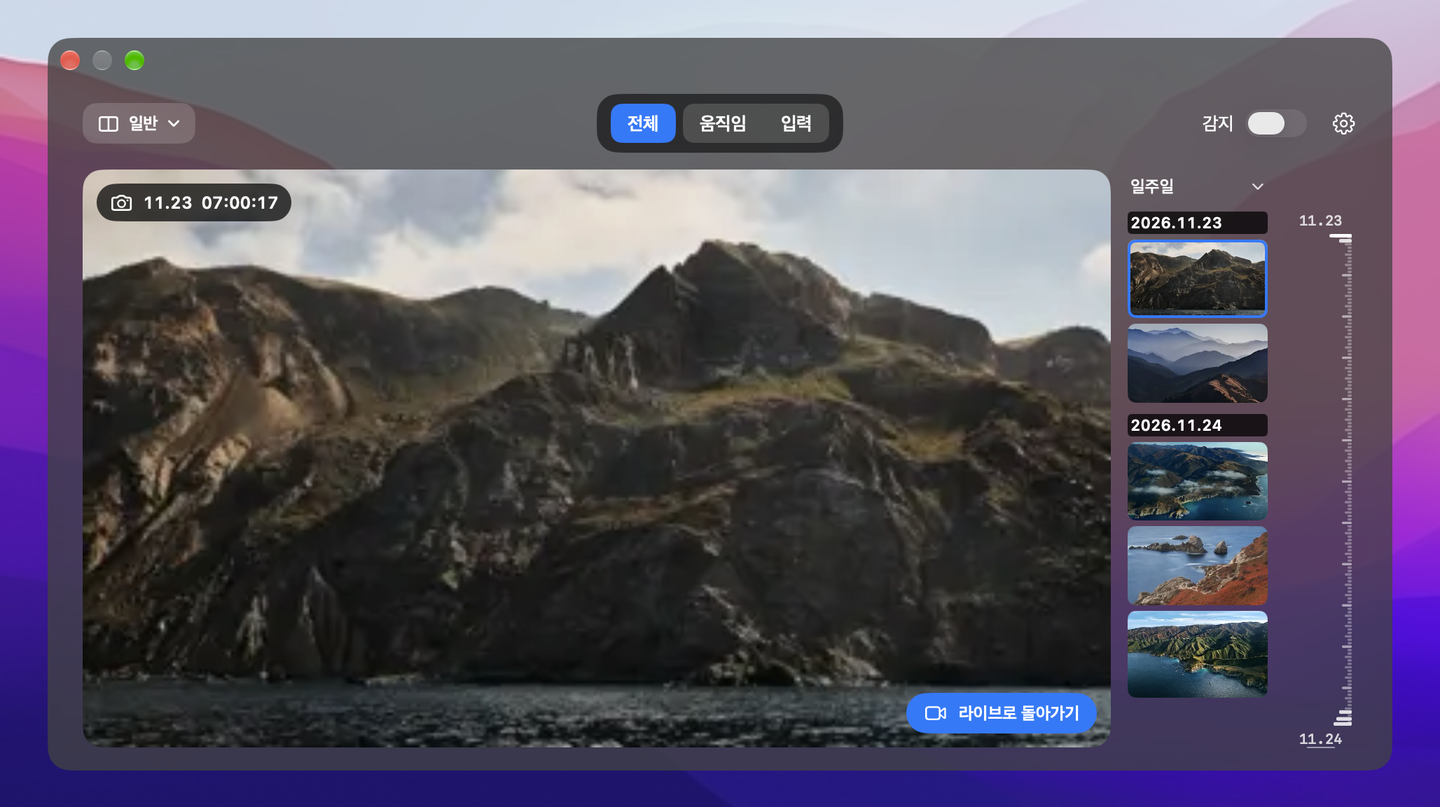
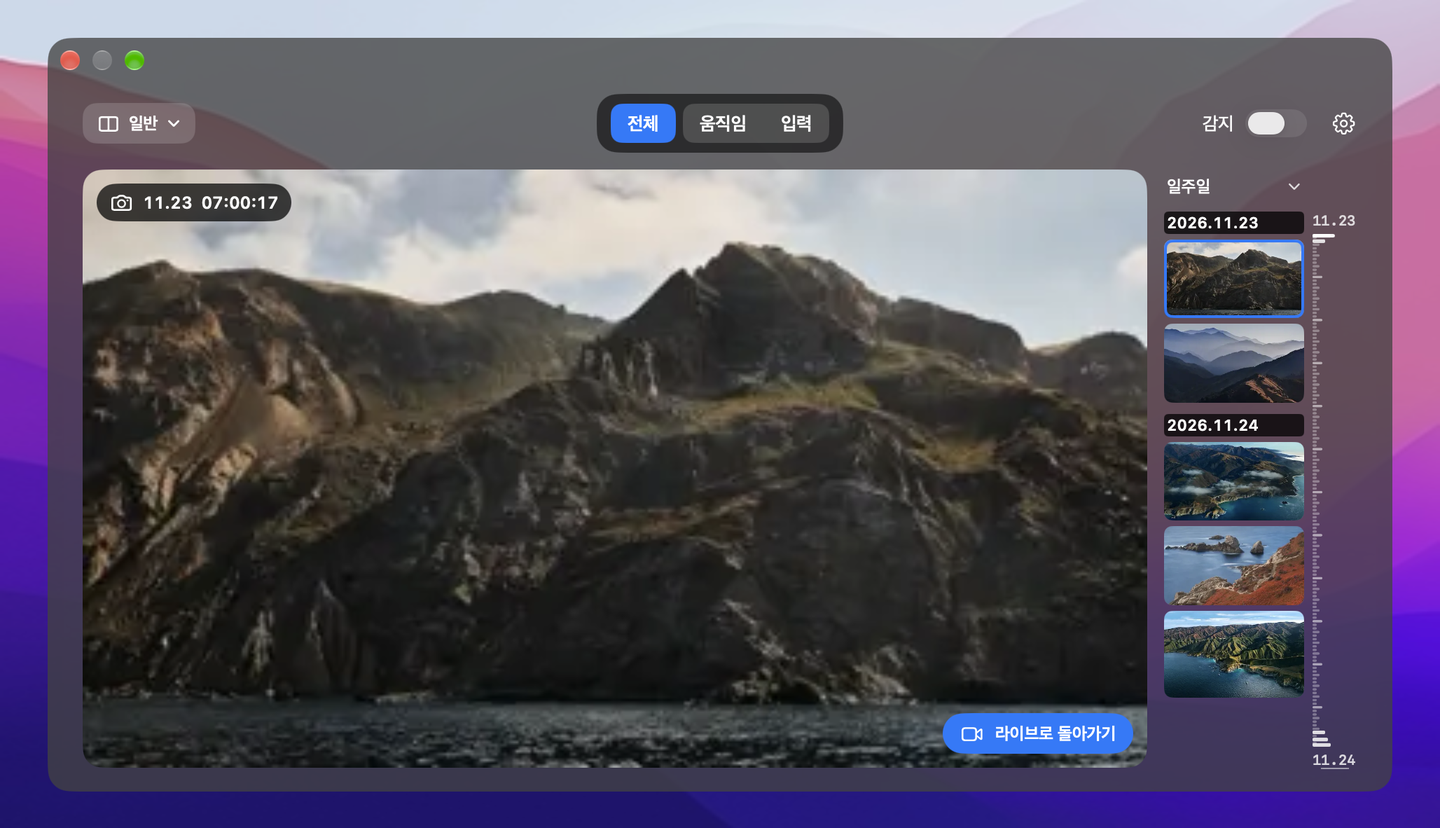
자리기록 0.3.9 세로 시간축을 사진 옆에 왼쪽 정렬

diff --git a/Sources/TimeRuler.swift b/Sources/TimeRuler.swift
@@ -24,7 +24,7 @@ struct TimeRuler: View {
     }
 
     var body: some View {
-        VStack(spacing: 3) {
+        VStack(alignment: .leading, spacing: 3) {
             if vertical, let first = index.chronological.first { dateLabel(first) }
             GeometryReader { proxy in
                 let position = active.map { index.fraction(of: $0.date) }
@@ -34,11 +34,11 @@ struct TimeRuler: View {
                 .animation(reduceMotion ? nil : .easeOut(duration: 0.16), value: pointer != nil)
                 .overlay {
                     if vertical, let position {
-                        let length = min(16, max(0, proxy.size.width - 4))
+                        let length = min(16, proxy.size.width)
                         let thickness = min(2.5, proxy.size.height)
                         Capsule().fill(.white.opacity(0.94))
                             .frame(width: length, height: thickness)
-                            .position(x: proxy.size.width - 4 - length / 2,
+                            .position(x: length / 2,
                                       y: min(max(thickness / 2, proxy.size.height * position), proxy.size.height - thickness / 2))
                             .id(position).transition(.opacity)
                     }
@@ -133,8 +133,8 @@ private struct WaveTicks: View, Animatable {
             let n = buckets.count
             let width = vertical ? size.height : size.width
             let height = vertical ? size.width : size.height
-            if vertical { ctx.concatenate(CGAffineTransform(a: 0, b: 1, c: 1, d: 0, tx: 0, ty: 0)) }
-            let baseline = height-4
+            let baseline = height - 4
+            let maxLength = vertical ? height : max(0, baseline - 5)
             for i in 0..<n {
                 let t = Double(i)/Double(n-1)
                 let x = width*t
@@ -146,14 +146,19 @@ private struct WaveTicks: View, Animatable {
                 let amplitude: CGFloat = vertical ? 4 : 21
                 let extra = reduceMotion ? 0 : amplitude * proximity * (0.87 + 0.13 * cos(distance / 8))
                 let eventHeight = events == 0 ? 0 : min(10, 5+log2(Double(events+1)))
-                let h = min(max(0, baseline-5), base+extra+eventHeight)
+                let length = min(maxLength, base + extra + eventHeight)
                 let color: Color
                 if proximity > 0.36 { color = .white.opacity(0.95) }
                 else if events > 0 { color = .white.opacity(0.83) }
                 else { color = .white.opacity(major ? 0.54 : 0.32) }
                 let tickWidth: CGFloat = events > 0 ? 2.6 : 1.7
-                let tick = CGRect(x: min(max(0, x-tickWidth/2), max(0, width-tickWidth)),
-                                  y: max(0, baseline-h), width: tickWidth, height: min(baseline,h))
+                let start = min(max(0, x - tickWidth / 2), max(0, width - tickWidth))
+                let tick: CGRect
+                if vertical {
+                    tick = CGRect(x: 0, y: start, width: length, height: tickWidth)
+                } else {
+                    tick = CGRect(x: start, y: baseline - length, width: tickWidth, height: length)
+                }
                 ctx.fill(Path(roundedRect: tick, cornerRadius: 1), with: .color(color))
             }
             if let currentPosition, width > 0 {

diff --git a/Tests/Checks.swift b/Tests/Checks.swift
@@ -258,12 +258,12 @@ struct Checks {
             if let name { try rep.representation(using: .png, properties: [:])!.write(to: directory.appendingPathComponent(name)) }
             return rep
         }
+        var rulerLeft: CGFloat { host.bounds.width - GalleryLayout.inset - GalleryLayout.standardRulerWidth }
         func markerRow(_ rep: NSBitmapImageRep) -> Int? {
             let scale = CGFloat(rep.pixelsWide) / host.bounds.width
-            let edge = host.bounds.width - GalleryLayout.inset - 4
             return (0..<rep.pixelsHigh).first { row in
                 (2...14).allSatisfy { offset in
-                    let x = Int((edge - CGFloat(offset)) * scale)
+                    let x = Int((rulerLeft + CGFloat(offset)) * scale)
                     guard let color = rep.colorAt(x: x, y: row)?.usingColorSpace(.sRGB) else { return false }
                     return min(color.redComponent, color.greenComponent, color.blueComponent) > 0.85
                 }
@@ -282,10 +282,9 @@ struct Checks {
         let liveImage = try snapshot("standard-live.png")
         guard let liveMark = markerRow(liveImage) else { throw AppProblem("세로 시간 눈금 표시 없음") }
         let scale = CGFloat(liveImage.pixelsWide) / host.bounds.width
-        let edge = host.bounds.width - GalleryLayout.inset - 4
         let middleRow = liveMark + Int(scale)
         let length = (0..<Int(30 * scale)).filter { offset in
-            guard let c = liveImage.colorAt(x: Int(edge * scale) - offset, y: middleRow)?.usingColorSpace(.sRGB) else { return false }
+            guard let c = liveImage.colorAt(x: Int(rulerLeft * scale) + offset, y: middleRow)?.usingColorSpace(.sRGB) else { return false }
             return min(c.redComponent, c.greenComponent, c.blueComponent) > 0.85
         }.count
         try expect(abs(CGFloat(length) / scale - 16) <= 1, "vertical playhead uses a short neutral 16-point tick")
@@ -311,6 +310,8 @@ struct Checks {
         for (width, expected) in [(680, 66), (961, 100), (1440, 158), (960, 100)] {
             window.setContentSize(CGSize(width: CGFloat(width), height: size.height))
             settle()
+            let archiveRight = scroll.convert(scroll.bounds, to: nil).maxX
+            try expect(abs(rulerLeft - archiveRight - 6) < 0.1, "standard ruler begins six points after the archive at width \(width)")
             try expect(abs(scroll.frame.width - CGFloat(expected)) < 0.01,
                        "right archive uses even one-third width at " + String(width) + " points")
         }

diff --git a/Sources/ArchiveStyle.swift b/Sources/ArchiveStyle.swift
@@ -38,13 +38,14 @@ enum GalleryLayout {
     }
 
     static let archiveTextInset: CGFloat = 2
-    static let standardRulerWidth: CGFloat = 52
+    static let standardRulerGap: CGFloat = 6
+    static let standardRulerWidth: CGFloat = 32
     static let defaultVideoAspect: CGFloat = 16.0 / 9.0
     static let standardBottomInset: CGFloat = 16
 
     static func standardOpeningHeight(windowWidth: CGFloat) -> CGFloat {
         let contentWidth = windowWidth - inset * 2
-        let viewerWidth = contentWidth - standardThumbnailWidth(in: contentWidth) - standardRulerWidth - gap * 2
+        let viewerWidth = contentWidth - standardThumbnailWidth(in: contentWidth) - standardRulerWidth - gap - standardRulerGap
         return max(350, ceil(viewerWidth / defaultVideoAspect) + 8 + filterHeight + gap + standardBottomInset)
     }
 

diff --git a/Sources/StandardGallery.swift b/Sources/StandardGallery.swift
@@ -19,7 +19,7 @@ struct StandardGallery: View {
                     VStack(alignment: .leading, spacing: 6) {
                         ArchivePeriodMenu(period: $period, mode: .standard)
                             .frame(width: width)
-                        HStack(spacing: GalleryLayout.gap) {
+                        HStack(spacing: GalleryLayout.standardRulerGap) {
                             archive.frame(width: width)
                             TimeRuler(index: index, pinned: selected ?? index.chronological.last,
                                       hover: { _ in }, choose: { item in

diff --git a/README.md b/README.md
@@ -4,7 +4,7 @@
 
 **macOS 14 이상 · Apple Silicon 및 Intel 지원**
 
-[자리기록 0.3.8 설치 파일 받기](https://github.com/sundaynighttt/desk-trace/releases/download/v0.3.8/DeskTrace-0.3.8.dmg) · [릴리스 기록](https://github.com/sundaynighttt/desk-trace/releases)
+[자리기록 0.3.9 설치 파일 받기](https://github.com/sundaynighttt/desk-trace/releases/download/v0.3.9/DeskTrace-0.3.9.dmg) · [릴리스 기록](https://github.com/sundaynighttt/desk-trace/releases)
 
 ![시험용 사진으로 본 일반 모드. 왼쪽에 선택한 사진이 크게 보이고 오른쪽에 날짜별 사진 목록과 시작일·종료일을 표시한 세로 시간 눈금이 있습니다.](docs/gallery.png)
 
@@ -23,7 +23,7 @@
 
 - 왼쪽 상단의 모드 메뉴에서 **미니 · 일반**을 전환합니다. 미니 모드에서는 기간 버튼이 모드 메뉴 바로 오른쪽에 있습니다. 일반 모드에서는 오른쪽 사진 목록의 첫 날짜 바로 위에 기간 버튼이 고정됩니다. 스크롤 중에는 현재 보이는 날짜가 버튼 아래에 남고, 기록이 비어 있어도 기간을 바꿀 수 있습니다. 기본값인 **미니**에서 **일반**을 선택하면 같은 창이 넓어집니다. 두 모드는 기간과 종류 필터, 감지 상태를 공유합니다.
 - **일반 모드** 왼쪽에는 라이브 카메라, 오른쪽에는 저장 사진 한 열, 맨 오른쪽에는 세로 시간 눈금이 있습니다. 목록과 눈금 모두 위가 과거, 아래가 최신입니다. 스크롤하면 목록만 움직입니다. 사진이나 눈금을 클릭하면 왼쪽에 해당 사진을 크게 표시하며, **라이브로 돌아가기**를 누르면 현재 영상이 보입니다. 새 기록이 생겨도 보고 있던 과거 사진과 목록 위치를 유지합니다. 기간이나 종류를 바꿔 선택한 사진이 빠지면 라이브로 돌아갑니다.
-- 일반 모드에서는 촬영 정보와 라이브 복귀 버튼이 영상·사진 안쪽에 겹쳐 표시됩니다. 일반 모드를 열 때 창 높이는 기본 16:9 영상의 표시 폭에 맞춰집니다. 라이브는 들어오는 영상 비율을 따르고, 저장 사진은 파일의 원본 비율로 전체 구도를 보여줍니다. 오른쪽 시간축의 양 끝에는 첫 기록과 마지막 기록의 날짜(월.일)를 한 줄씩 표시합니다. 짧은 흰색 눈금은 선택한 사진의 시각을 가리키고, 포인터 주변 눈금은 살짝 길어집니다. 라이브에서는 현재 필터의 최신 기록을 가리킵니다. 감지를 끄고 라이브만 볼 때는 사진을 저장하지 않습니다. 카메라 권한이 없어도 저장 사진을 열 수 있습니다.
+- 일반 모드에서는 촬영 정보와 라이브 복귀 버튼이 영상·사진 안쪽에 겹쳐 표시됩니다. 일반 모드를 열 때 창 높이는 기본 16:9 영상의 표시 폭에 맞춰집니다. 라이브는 들어오는 영상 비율을 따르고, 저장 사진은 파일의 원본 비율로 전체 구도를 보여줍니다. 세로 시간축은 사진 오른쪽에서 6포인트 떨어진 곳에 둡니다. 위·아래 날짜(월.일)와 모든 눈금의 왼쪽 끝을 같은 선에 맞추며, 눈금은 오른쪽으로 뻗습니다. 짧은 흰색 눈금은 선택한 사진의 시각을 가리키고, 포인터 주변 눈금은 살짝 길어집니다. 라이브에서는 현재 필터의 최신 기록을 가리킵니다. 감지를 끄고 라이브만 볼 때는 사진을 저장하지 않습니다. 카메라 권한이 없어도 저장 사진을 열 수 있습니다.
 - **미니 모드**는 사진 한 줄에 맞춘 최소 높이로 열립니다. 사진과 시간 눈금은 모두 왼쪽이 과거, 오른쪽이 최신입니다. 창을 열거나 필터를 바꾸면 해당 기간의 최신 사진이 보입니다. 미니 모드에서는 각 사진의 촬영 시각이 항상 보입니다. 미니 모드에서 사진을 가리키면 파란 테두리가 보이고, 클릭하면 원래 비율로 크게 볼 수 있습니다.
 - 아래 시간 눈금 위에서 포인터를 움직이면 눈금이 물결처럼 솟고 해당 기록이 보입니다. 굵고 높은 노란 막대 하나가 현재 보고 있는 사진의 촬영 시각을 표시합니다. 창을 처음 열면 최신 사진의 시각을 가리키고, 기록이 없으면 표시되지 않습니다. 눈금을 클릭하면 선택이 고정되며 좌우 방향키로 인접 기록을 고를 수 있습니다. 사진은 같은 간격으로 놓이고 눈금은 실제 시간 간격을 나타냅니다.
 - 오른쪽 위 설정에서 촬영 간격과 감지 종류를 바꾸거나 저장 폴더를 엽니다. 감지 중에도 기록을 조회할 수 있습니다.
@@ -61,6 +61,6 @@
 ./scripts/package.sh
 ```
 
-빌드 시 공식 libwebp 소스를 내려받아 고정된 SHA-256 값을 확인합니다. 완성된 앱에는 인코더가 포함됩니다. 설치하는 맥에는 위 개발 도구가 필요하지 않습니다. 기본 산출물은 `.build/자리기록.app`과 `.build/DeskTrace-0.3.8.dmg`입니다. Apple Silicon과 Intel용 코드를 함께 포함합니다. 위 명령은 로컬 시험용 서명을 사용합니다. 공개 배포용 DMG는 빌드 후 `DESKTRACE_SIGN_IDENTITY`에 Developer ID Application 인증서를, `DESKTRACE_NOTARY_PROFILE`에 Apple 공증용 키체인 프로필 이름을 지정하고 `./scripts/release.sh`를 실행하면 생성됩니다. 스크립트는 앱과 DMG에 서명하고 Apple 공증을 받은 뒤 공증 확인표를 첨부해 검증합니다.
+빌드 시 공식 libwebp 소스를 내려받아 고정된 SHA-256 값을 확인합니다. 완성된 앱에는 인코더가 포함됩니다. 설치하는 맥에는 위 개발 도구가 필요하지 않습니다. 기본 산출물은 `.build/자리기록.app`과 `.build/DeskTrace-0.3.9.dmg`입니다. Apple Silicon과 Intel용 코드를 함께 포함합니다. 위 명령은 로컬 시험용 서명을 사용합니다. 공개 배포용 DMG는 빌드 후 `DESKTRACE_SIGN_IDENTITY`에 Developer ID Application 인증서를, `DESKTRACE_NOTARY_PROFILE`에 Apple 공증용 키체인 프로필 이름을 지정하고 `./scripts/release.sh`를 실행하면 생성됩니다. 스크립트는 앱과 DMG에 서명하고 Apple 공증을 받은 뒤 공증 확인표를 첨부해 검증합니다.
 
 WebP 라이브러리의 저작권 및 특허 안내는 `Notices/`와 앱 번들의 Resources에 포함됩니다.
